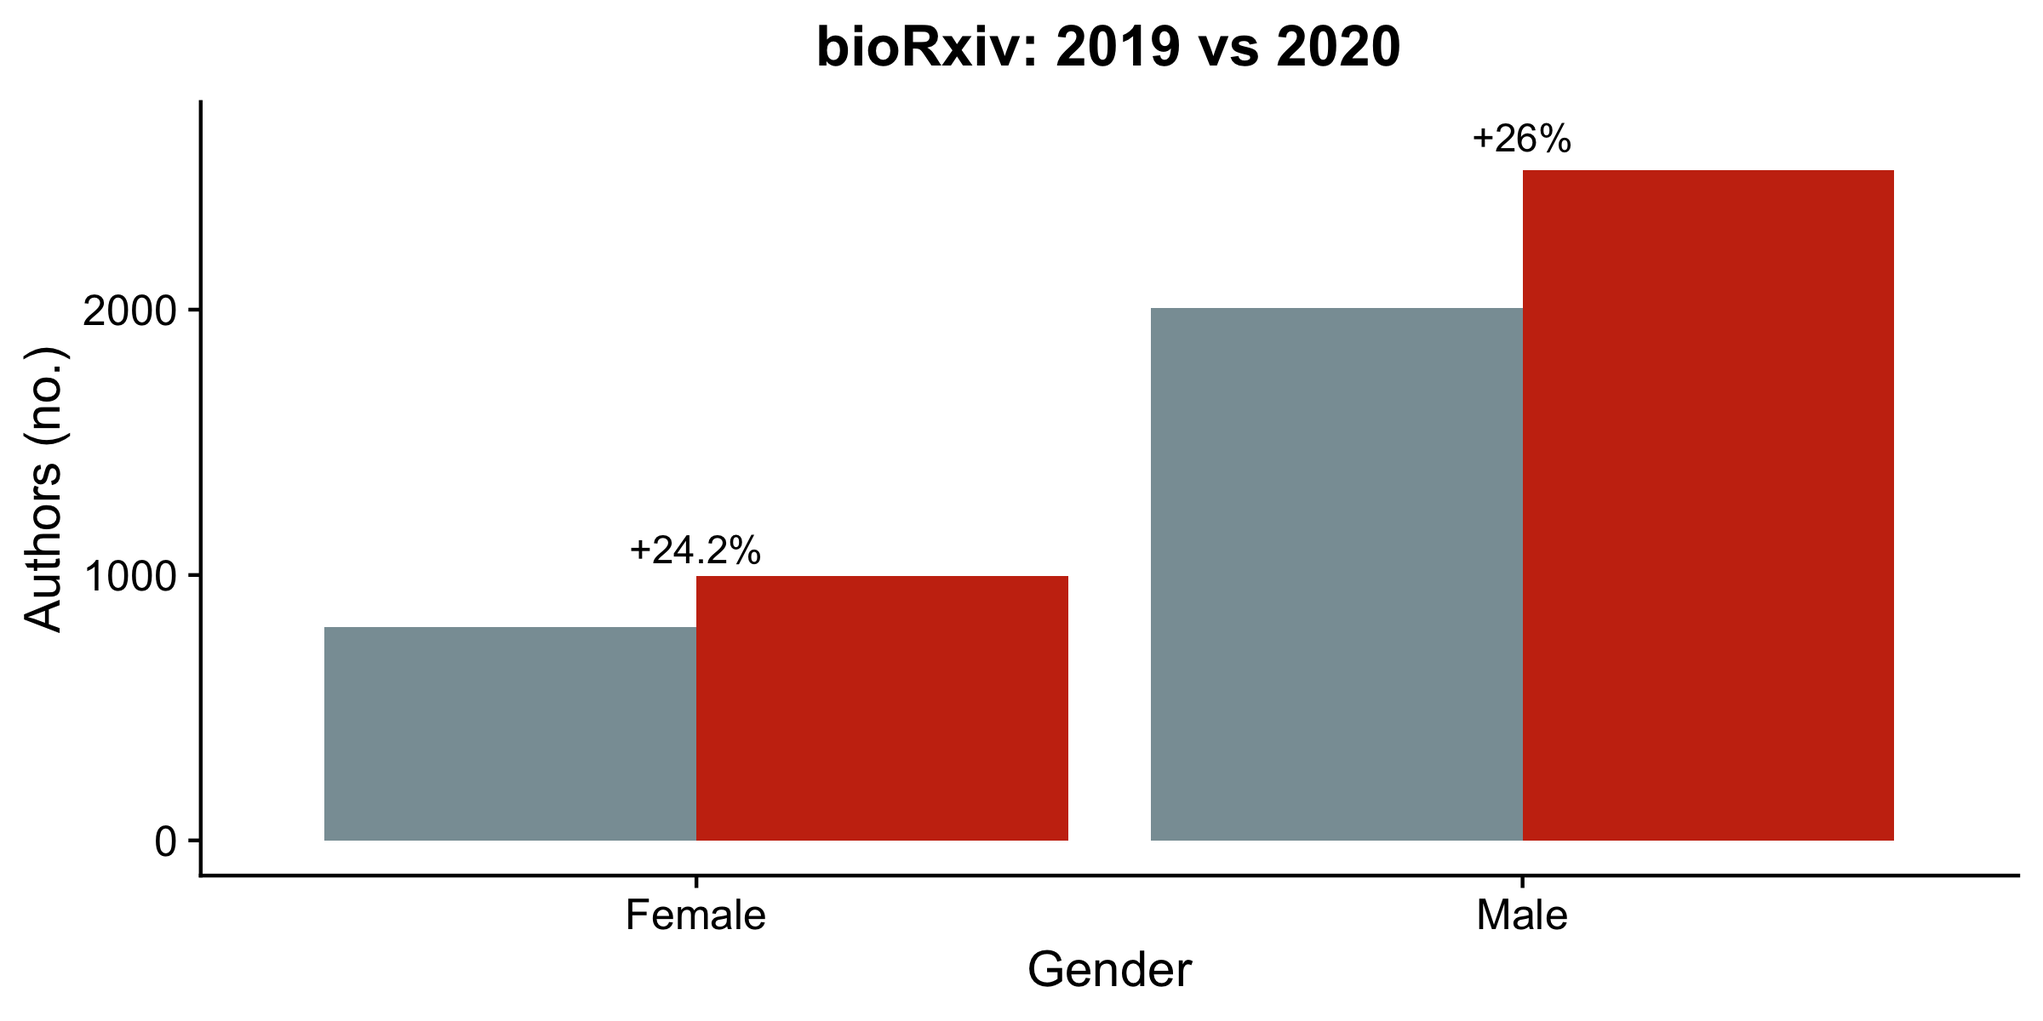
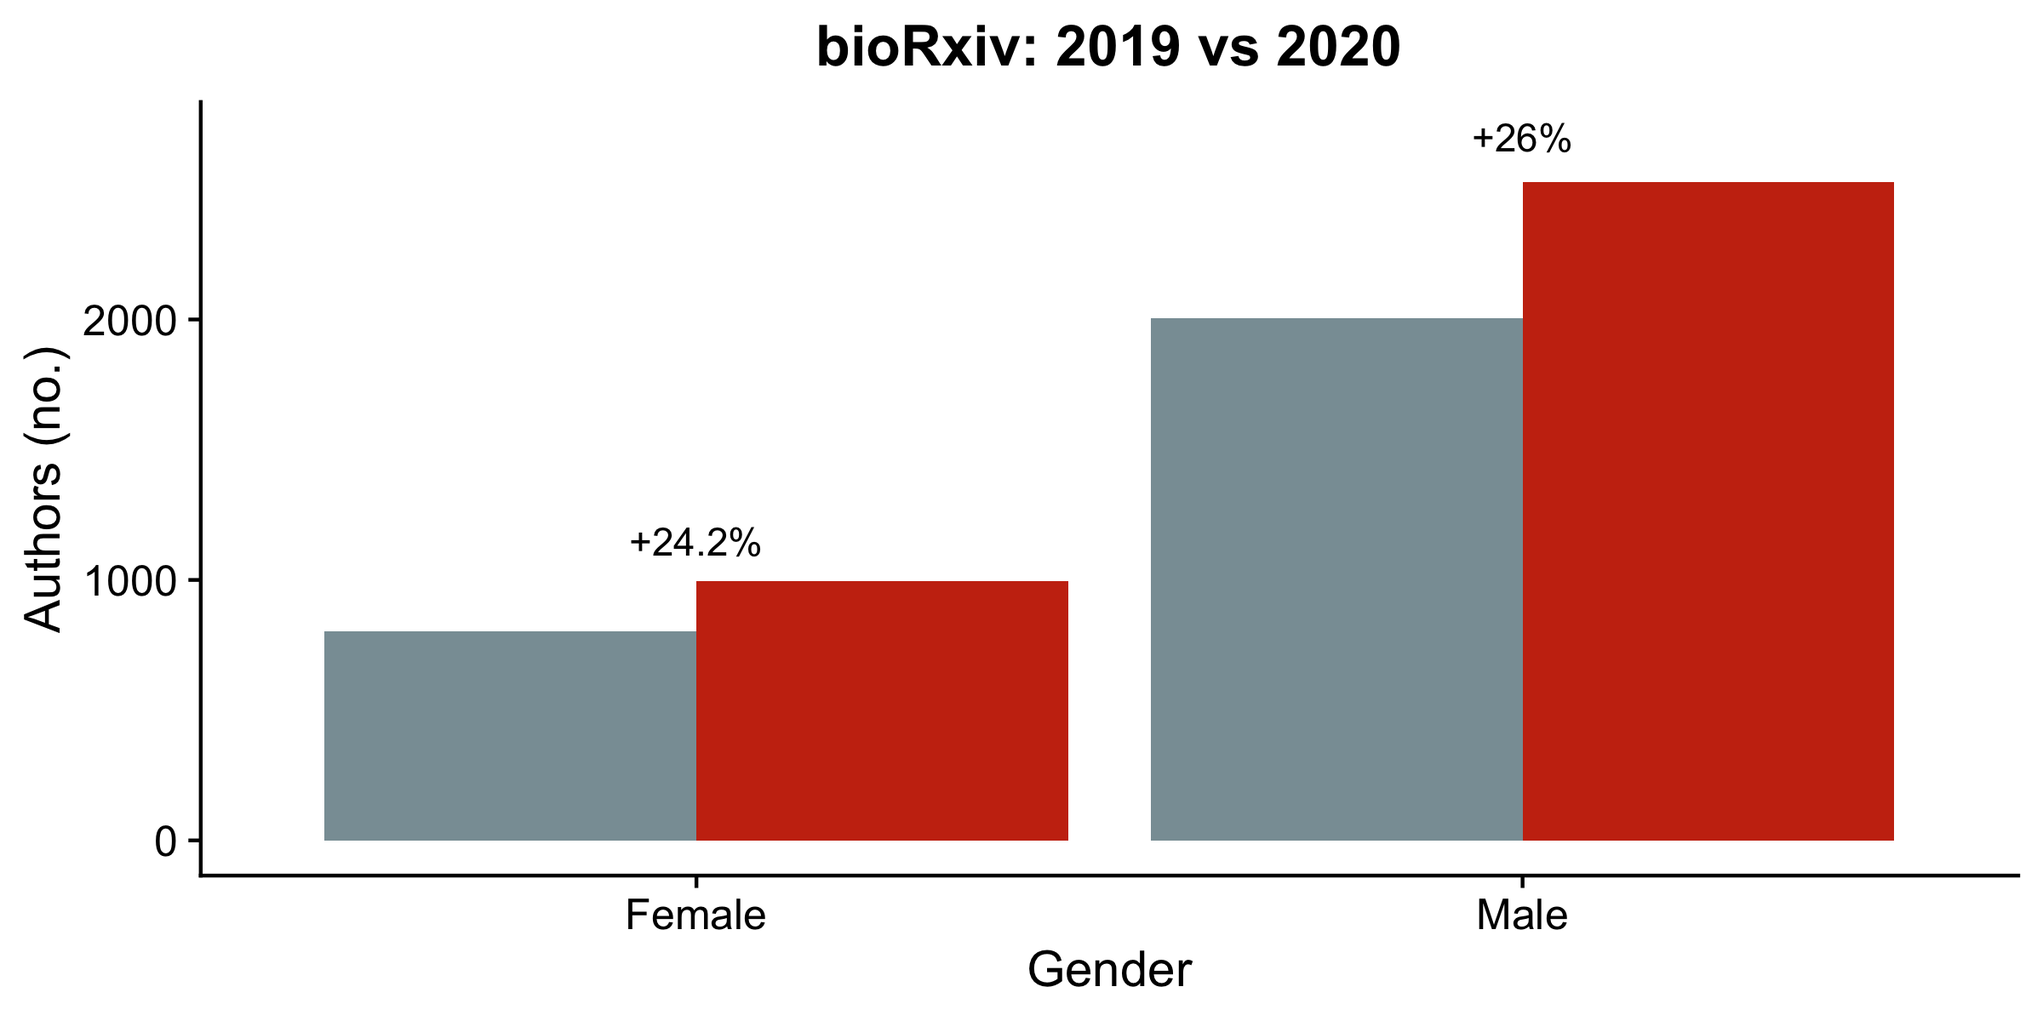
Commit from RStudio

diff --git a/README.md b/README.md
@@ -5,20 +5,18 @@ Megan Frederickson
 
 With schools and daycares closed because of COVID-19, many academics are
 currently working from home with their kids underfoot. Writing in
-Nature, \[Minello\]
-(<https://www.nature.com/articles/d41586-020-01135-9>) suggested the
-pandemic is disproportionately affecting the productivity of female
-academics, because women often do more caregiving than men.
+*Nature,* [Minello](https://www.nature.com/articles/d41586-020-01135-9)
+suggested the pandemic is disproportionately affecting the productivity
+of female academics, because women often do more caregiving than men.
 
 I quantified this effect by analyzing data on preprint submissions to
-arXiv (<https://arxiv.org/>) and bioRxiv (<https://www.biorxiv.org/>),
-two preprint servers that together cover many STEM fields. Peer review
-takes time, so it is still too soon to see COVID-19’s effects on the
-numbers of journal articles published by female versus male academics.
-However, a growing number of academics make their submitted or
-in-progress manuscripts available on preprint servers, meaning it might
-be possible to measure the pandemic’s effect on preprint submissions in
-real time.
+[arXiv](https://arxiv.org/) and [bioRxiv](https://www.biorxiv.org/), two
+preprint servers that together cover many STEM fields. Peer review takes
+time, so it is still too soon to see COVID-19’s effects on the numbers
+of journal articles published by female versus male academics. However,
+a growing number of academics make their submitted or in-progress
+manuscripts available on preprint servers, meaning it might be possible
+to measure the pandemic’s effect on preprint submissions in real time.
 
 ## arXiv submissions
 
@@ -30,11 +28,9 @@ Karthik, R. and K. Broman (2019). aRxiv: Interface to the arXiv API. R
 package version 0.5.19. <https://CRAN.R-project.org/package=aRxiv>
 
 I began by scraping all records for March 15-April 15, 2020, during the
-COVID-19 pandemic, and for the same date range in 2019. I then expanded
-to the same dates in 2018. Finally, I scraped all the data for
-Jan. 1-March 15, 2020, immediately before the pandemic, and updated the
-pandemic data with the most recent dates (April 16-22, 2020). I scraped
-the data in batches, as recommended in the aRxiv package tutorial.
+COVID-19 pandemic, and for the same date range in 2019 and 2018. Then, I
+scraped all the data for January 1 to April 22, 2020. I scraped the data
+in batches, as recommended in the aRxiv package tutorial.
 
 ``` r
 #Not run
@@ -96,7 +92,7 @@ Data. R package version 0.5.3, <https://github.com/ropensci/gender>.
 
 This package returns the probability that a name is male or female by
 comparing the name to names in a database; I used the U.S. Social
-Security baby names database.
+Security Administration baby names database.
 
 Please note: this is a brute force method of predicting gender, and it
 has many limitations, as discussed by the package authors on their
@@ -125,12 +121,12 @@ df.early2020 <- read.csv("Data/arxiv_early2020_data.csv")
 df.update <- read.csv("Data/arxiv_update2020_data.csv")
 df.all2020 <- rbind(df.2020, df.early2020, df.update) #Combine in one dataframe
 
-split.names <- function(x){strsplit(as.character(x), "|", fixed=TRUE)} #Write a function to split strings of author names
+split.names <- function(x){strsplit(as.character(x), "|", fixed=TRUE)} #Function to split strings of author names
 
 #For the year over year dataset
 df.full$split.names <- lapply(df.full$authors, split.names) #Apply function
 
-all_first_names <- word(unlist(df.full$split.names),1) #Make a list of all first author names
+all_first_names <- word(unlist(df.full$split.names),1) #Make a list of all author first names
 gender <- gender(all_first_names, method = "ssa") #Assign gender
 gender <- unique(gender[ , c(1,2,4)]) #Keep only unique names
 
@@ -144,7 +140,7 @@ for(i in 1:length(df.full$authors)){
   df.full$female.n[i] <-  sum(as.numeric(str_count(as.character(tmp$gender), pattern = paste(sprintf("\\b%s\\b", "female")))), na.rm=TRUE)
 }
 
-df.full.output <- as.data.frame(apply(df.full,2,as.character))
+df.full.output <- as.data.frame(apply(df.full,2,as.character)) 
 write.csv(df.full.output, "Data/arxiv_full_gender.csv")
 
 #Same for the all 2020 dataset
@@ -167,26 +163,27 @@ df.all2020.output <- as.data.frame(apply(df.all2020,2,as.character))
 write.csv(df.all2020.output, "Data/arxiv_all2020_gender.csv")
 ```
 
-### All arXiv authors
+### Total numbers of arXiv preprint authors in Mar/Apr 2020 compared to Mar/Apr 2019, by gender
 
 How many male versus female authors of preprints were there in Mar/Apr,
-2020, compared to the same dates last year?
+2020, compared to the same dates last year? Note: this is not the number
+of unique authors; it includes authors who submitted multiple preprints.
 
 ``` r
 df.full <- read.csv("Data/arxiv_full_gender.csv") #Read in data
-df.full <- df.full[!duplicated(df.full), ] #Remove duplicates
+df.full <- df.full[!duplicated(df.full), ] #Remove duplicates, if any
 df.full$year <- as.factor(year(as.Date(df.full$submitted))) #Extract year
 
 all <- as.data.frame(ungroup(df.full %>% group_by(year) %>% summarize(Female = sum(female.n, na.rm=TRUE), Male = sum(male.n, na.rm=TRUE)))) #Summarize by year
-all$total <- all$Female+all$Male #Total autthors
+all$total <- all$Female+all$Male #Total authors
 all.long <- gather(all, Gender, number, Male:Female) #Make wide data long
 all.t <- as.data.frame(t(all[,-1])) #Transpose
 colnames(all.t) <- c("2018", "2019", "2020") #Fix column names
-all.t$per.dif.1920 <- (all.t$`2020`/all.t$`2019`*100)-100 #Calculate percent change, 2020 over 2019
+all.t$per.dif.1920 <- ((all.t$`2020`-all.t$`2019`)/(all.t$`2019`))*100 #Calculate percent change, 2020 over 2019
 
-#Just compare 2019 and 2020
-p1 <- ggplot(data=subset(all.long, year != 2018), aes(fill=as.factor(year), y=number, x=Gender))+geom_bar(position="dodge", stat="identity")+theme_cowplot()+xlab("Gender")+ylab("Authors (no.)")+labs(fill="Year")+scale_fill_manual(values = wes_palette("Royal1"), labels=c("Mar/Apr 2019", "Mar/Apr 2020"))+ggtitle("arXiv: 2019 vs 2020, all authors")+theme(legend.position = c(0.1, 0.9), legend.title = element_blank(), plot.title = element_text(hjust = 0.5))+annotate("text", x=c(1, 2),  y=c(8500,29000), label = paste0("+", round(all.t$per.dif.1920[1:2], 1), "%"))
-p1
+#Make figure comparing 2020 to 2019
+p1 <- ggplot(data=subset(all.long, year != 2018), aes(fill=as.factor(year), y=number, x=Gender))+geom_bar(position="dodge", stat="identity")+theme_cowplot()+xlab("Gender")+ylab("Authors (no.)")+labs(fill="Year")+scale_fill_manual(values = wes_palette("Royal1"), labels=c("Mar/Apr 2019", "Mar/Apr 2020"))+ggtitle("arXiv: 2019 vs 2020, all authors")+theme(legend.position = c(0.1, 0.9), legend.title = element_blank(), plot.title = element_text(hjust = 0.5))+annotate("text", x=c(1, 2),  y=c(8700,29200), label = paste0("+", round(all.t$per.dif.1920[1:2], 1), "%"))
+p1 
 ```
 
 ![](README_files/figure-gfm/Visualize%20data-1.png)<!-- -->
@@ -198,22 +195,22 @@ same dates in 2019, the number of male authors has grown more than the
 number of female authors, both as a percent change and in absolute
 terms.
 
-### Sole arXiv authors
+### Numbers of single-authored arXiv preprints in Mar/Apr 2020 compared to Mar/Apr 2019, by gender
 
-How many arXiv preprints were sole-authored by a male versus a female
+How many arXiv preprints were sole-authored by a female versus a male
 academic in Mar/Apr, 2020, compared to the same dates last
 year?
 
 ``` r
-summary <- as.data.frame(ungroup(df.full %>% group_by(year, male.n, female.n) %>% summarize(n = n())))
-summary$total.n <- summary$male.n+summary$female.n
-summary.sole.authors <- subset(summary, total.n == 1)
-sole.wide <- spread(summary.sole.authors, year, n)
-sole.wide$gender <- ifelse(sole.wide$male.n == 0, "Female", "Male")
-sole.long <- gather(sole.wide, year, number, `2018`:`2020`)
-sole.wide$per.dif.1920 <- (sole.wide$`2020`/sole.wide$`2019`)*100-100
+df.full$author.n <- str_count(df.full$authors, pattern = "\\|")+1 #Count author number
+sole.authors <- as.data.frame(ungroup(subset(df.full, author.n == 1) %>% group_by(year) %>% summarize(Female = sum(female.n, na.rm=TRUE), Male = sum(male.n, na.rm=TRUE)))) #Summarize by year
+sole.long <- gather(sole.authors, Gender, number, Male:Female) #Make wide data long
+sole.authors.t <- as.data.frame(t(sole.authors[,-1])) #Transpose
+colnames(sole.authors.t) <- c("2018", "2019", "2020") #Fix column names
+sole.authors.t$per.dif.1920 <- ((sole.authors.t$`2020`-sole.authors.t$`2019`)/(sole.authors.t$`2019`))*100 #Calculate percent change, 2020 over 2019
 
-p2 <- ggplot(data=subset(sole.long, year != 2018), aes(fill=as.factor(year), y=number, x=gender))+geom_bar(position="dodge", stat="identity")+theme_cowplot()+xlab("Gender")+ylab("Authors (no.)")+labs(fill="Year")+scale_fill_manual(values = wes_palette("Royal1"), labels=c("Mar/Apr 2019", "Mar/Apr 2020"))+ggtitle("arXiv: 2019 vs 2020, sole authors")+theme(legend.position = c(0.1, 0.9), legend.title = element_blank(), plot.title = element_text(hjust = 0.5))+annotate("text", x=c(1, 2),  y=c(880,3150), label = paste0("+", round(sole.wide$per.dif.1920[1:2], 1), "%"))+theme(legend.position="none")
+#Make figure for sole-authored preprints
+p2 <- ggplot(data=subset(sole.long, year != 2018), aes(fill=as.factor(year), y=number, x=Gender))+geom_bar(position="dodge", stat="identity")+theme_cowplot()+xlab("Gender")+ylab("Authors (no.)")+labs(fill="Year")+scale_fill_manual(values = wes_palette("Royal1"), labels=c("Mar/Apr 2019", "Mar/Apr 2020"))+ggtitle("arXiv: 2019 vs 2020, sole authors")+theme(legend.position = c(0.1, 0.9), legend.title = element_blank(), plot.title = element_text(hjust = 0.5))+annotate("text", x=c(1, 2),  y=c(260,1350), label = paste0("+", round(sole.authors.t$per.dif.1920[1:2], 1), "%"))+theme(legend.position="none")
 p2
 ```
 
@@ -221,9 +218,10 @@ p2
 
 Single-authored arXiv submissions are also up overall, but again the
 number of male authors is currently growing faster than the number of
-female authors, both as a percent change and in absolute terms.
+female authors, both as a percent change and in absolute
+terms.
 
-### arXiv: pre- and during-COVID-19 in the year 2020
+### Numbers of arXiv preprint submissions in January to April, 2020, by gender
 
 Next, I zoomed in on the months leading up to widespread stay-at-home
 orders and school and childcare closures that North Americans
@@ -234,15 +232,16 @@ different parts of the world.)
 ``` r
 #All authors
 df.all2020 <- read.csv("Data/arxiv_all2020_gender.csv") #Read in data
-df.all2020 <- df.all2020[!duplicated(df.all2020), ] #Remove duplicated removes
+df.all2020 <- df.all2020[!duplicated(df.all2020), ] #Remove duplicated rows, if any
 
 df.all2020$month <- floor_date(as.Date(df.all2020$submitted), "month") #Bin by month
-arxiv.m <- as.data.frame(ungroup(subset(df.all2020) %>% group_by(month) %>% summarize(female.n=sum(female.n, na.rm=TRUE), male.n=sum(male.n, na.rm=TRUE),n.days = length(unique(as.Date(submitted)))))) #Summarize by month
+arxiv.m <- as.data.frame(ungroup(df.all2020 %>% group_by(month) %>% summarize(female.n=sum(female.n, na.rm=TRUE), male.n=sum(male.n, na.rm=TRUE), n.days = length(unique(as.Date(submitted)))))) #Summarize by month
 arxiv.m.long <- gather(arxiv.m, gender, n, female.n:male.n) #Make wide data long
 arxiv.m.long$pubs.per.day <- arxiv.m.long$n/arxiv.m.long$n.days #Adjust for different numbers of days in each month
 arxiv.m.long$gender <- as.factor(arxiv.m.long$gender) #Make sure gender is a factor
 levels(arxiv.m.long$gender) <- c("Female", "Male") #Capitalize genders
 
+#Make early 2020 figure
 p3 <- ggplot(data=arxiv.m.long, aes(fill=gender, y=pubs.per.day, x=month))+geom_bar(position="dodge", stat="identity")+theme_cowplot()+ggtitle("arXiv: early 2020")+xlab("Month")+ylab("Preprint authors per day (no.)")+labs(fill="Gender")+facet_grid(~gender)+theme(legend.position="none", plot.title = element_text(hjust = 0.5))
 p3
 ```
@@ -251,13 +250,12 @@ p3
 
 The numbers of male authors of arXiv preprints have increased through
 early 2020, while numbers of female authors of arXiv preprints have
-basically plateaued during the pandemic.
+almost plateaued during the pandemic.
 
 ## bioRxiv submissions
 
-Next, I scraped submission data from bioRxiv (<https://biorxiv.org/>),
-which is the main preprint server for biology. I used the rbiorxiv
-package, see:
+Next, I scraped submission data from bioRxiv, the main preprint server
+for biology. I used the rbiorxiv package, see:
 
 Fraser, N (2020). rbiorxiv. R package,
 <https://github.com/nicholasmfraser/rbiorxiv>
@@ -281,53 +279,51 @@ write.csv(df.b.2018, "Data/biorxiv_2018_data.csv")
 ```
 
 I then inferred the gender of corresponding authors of bioRxiv
-preprints, as above. Note that the bioRxiv API only returns first author
-names for the corresponding authors, and not for all authors.
-(Unfortunately.)
+preprints, as above. Note that the bioRxiv API only returns first names
+for corresponding authors, and not for all authors. (Unfortunately.)
 
 ``` r
-df.b.2018 <- read.csv("Data/biorxiv_2018_data.csv")
+df.b.2018 <- read.csv("Data/biorxiv_2018_data.csv") #Read in data
 df.b.2019 <- read.csv("Data/biorxiv_2019_data.csv")
 df.b.all2020 <- read.csv("Data/biorxiv_2020_data.csv")
 
-df.b.full <- rbind(df.b.2018, df.b.2019, subset(df.b.all2020, as.Date(date) >= "2020-03-15" & as.Date(date) <= "2020-04-15"))
-
-df.b.full$year <- as.factor(year(as.Date(df.b.full$date)))
-
-df.b.all2020$date <- as.Date(df.b.all2020$date)
+df.b.full <- rbind(df.b.2018, df.b.2019, subset(df.b.all2020, as.Date(date) >= "2020-03-15" & as.Date(date) <= "2020-04-15")) #Make year comparison, subsetting 2020 data to just March 15 to April 15
+df.b.full$year <- as.factor(year(as.Date(df.b.full$date))) #Extract year
+df.b.all2020$date <- as.Date(df.b.all2020$date) #Make sure date column is in date format
 
 df.b.full$cor.author.first.name <- sapply(strsplit(as.character(df.b.full$author_corresponding), " "), head, 1) #Extract first names
 df.b.all2020$cor.author.first.name <- sapply(strsplit(as.character(df.b.all2020$author_corresponding), " "), head, 1) #Extract first names
 
+#Assign gender for year-over-year dataset
 gender <- NULL
 gender <- gender(df.b.full$cor.author.first.name, method = "ssa")
 gender <- unique(gender[ , c(1,2,4)])
 df.b.full <- merge(df.b.full, gender, by.x = "cor.author.first.name",  by.y ="name", all = TRUE)
+df.b.full <- df.b.full[!duplicated(df.b.full),] #Remove duplicated rows, if any
 
-df.b.full <- df.b.full[!duplicated(df.b.full),]
-
+#Assigng gender for early 2020 dataset
 gender <- NULL
 gender <- gender(df.b.all2020$cor.author.first.name, method = "ssa")
 gender <- unique(gender[ , c(1,2,4)])
 df.b.all2020 <- merge(df.b.all2020, gender, by.x = "cor.author.first.name",  by.y ="name", all = TRUE)
-
-df.b.all2020 <- df.b.all2020[!duplicated(df.b.all2020),]
+df.b.all2020 <- df.b.all2020[!duplicated(df.b.all2020),] #Remove duplicated rows, if any
 ```
 
-I compared the numbers of male and female corresponding authors on
-bioRxiv preprints between Mar/Apr 2019 and
-2020.
+### Total numbers of bioRxiv preprint authors in Mar/Apr 2020 compared to Mar/Apr 2019, by gender
+
+How many male and female corresponding authors were there on bioRxiv
+preprints between Mar/Apr 2019 and
+2020?
 
 ``` r
-biorxiv.yr <- as.data.frame(ungroup(subset(df.b.full, !is.na(gender)) %>% group_by(year, gender) %>% summarize(n=n())))
-biorxiv.yr.wide <- spread(biorxiv.yr, year, n)
-biorxiv.yr.wide$gender <- as.factor(biorxiv.yr.wide$gender)
-levels(biorxiv.yr.wide$gender) <- c("Female", "Male")
-biorxiv.yr.long <- gather(biorxiv.yr.wide, year, number, `2018`:`2020`)
-biorxiv.yr.long$year <- as.factor(biorxiv.yr.long$year)
-biorxiv.yr.wide$per.dif.1920 <- (biorxiv.yr.wide$`2020`/biorxiv.yr.wide$`2019`)*100-100
+biorxiv.yr <- as.data.frame(ungroup(subset(df.b.full, !is.na(gender)) %>% group_by(year, gender) %>% summarize(n=n()))) #Summarize by year
+biorxiv.yr$gender <- as.factor(biorxiv.yr$gender) #Make sure gender is a factor
+levels(biorxiv.yr$gender) <- c("Female", "Male") #Capitalize genders
+biorxiv.yr.wide <- spread(biorxiv.yr, year, n) #Make long data wide
+biorxiv.yr.wide$per.dif.1920 <- ((biorxiv.yr.wide$`2020`-biorxiv.yr.wide$`2019`)/biorxiv.yr.wide$`2019`)*100 #Calculate percent change, 2019 to 2020
 
-p4 <- ggplot(data=subset(biorxiv.yr.long, year != 2018), aes(fill=as.factor(year), y=number, x=as.factor(gender)))+geom_bar(position="dodge", stat="identity")+theme_cowplot()+xlab("Gender")+ylab("Authors (no.)")+labs(fill="Year")+scale_fill_manual(values = wes_palette("Royal1"))+ggtitle("bioRxiv: 2019 vs 2020")+theme(plot.title = element_text(hjust = 0.5))+annotate("text", x=c(1,2),  y=c(1100,2650), label = paste0("+", round(biorxiv.yr.wide$per.dif.1920, 1), "%"))+theme(legend.position="none")
+#Make figure for 2019 versus 2020 comparison
+p4 <- ggplot(data=subset(biorxiv.yr, year != 2018), aes(fill=year, y=n, x=as.factor(gender)))+geom_bar(position="dodge",stat="identity")+theme_cowplot()+xlab("Gender")+ylab("Authors (no.)")+labs(fill="Year")+scale_fill_manual(values = wes_palette("Royal1"))+ggtitle("bioRxiv: 2019 vs 2020")+theme(plot.title = element_text(hjust = 0.5))+annotate("text", x=c(1,2),  y=c(1150,2700), label = paste0("+", round(biorxiv.yr.wide$per.dif.1920, 1), "%"))+theme(legend.position="none")
 p4
 ```
 
@@ -338,22 +334,25 @@ p5 <- plot_grid(p1, p2, p4, nrow=1) #Combine into part of a single figure
 ```
 
 The gender difference among corresponding authors for bioRxiv preprints
-is more modest than in the full arXiv dataset, but the number of male
+is more modest than in the arXiv dataset, but the number of male
 corresponding authors of bioRxiv preprints has still increased more than
-the number of female corresponding authors of bioRxiv preprints, year
-over year.
+the number of female corresponding authors of bioRxiv preprints, again
+both as a percent change and in absolute
+terms.
 
-### bioRxiv: pre- and during-COVID-19 in the year 2020
+### Numbers of bioRiv preprint submissions in January to April, 2020, by gender
 
 As for arXiv submissions, I also compared bioRxiv submissions across
-months for early 2020.
+months for early
+2020.
 
 ``` r
-df.b.all2020$month <- floor_date(df.b.all2020$date, "month")
-biorxiv.m <- as.data.frame(ungroup(subset(df.b.all2020, !is.na(gender)) %>% group_by(month, gender) %>% summarize(n=n(), n.days = length(unique(date)), pubs.per.day = n/n.days)))
-biorxiv.m$gender <- as.factor(biorxiv.m$gender)
-levels(biorxiv.m$gender) <- c("Female", "Male")
+df.b.all2020$month <- floor_date(df.b.all2020$date, "month") #Bin by month
+biorxiv.m <- as.data.frame(ungroup(subset(df.b.all2020, !is.na(gender)) %>% group_by(month, gender) %>% summarize(n=n(), n.days = length(unique(date)), pubs.per.day = n/n.days))) #Summarize by month and gender
+biorxiv.m$gender <- as.factor(biorxiv.m$gender) #Make sure gender is a factor
+levels(biorxiv.m$gender) <- c("Female", "Male") #Capitalize genders
 
+#Make early 2020 figure
 p6 <- ggplot(data=biorxiv.m, aes(fill=gender, y=pubs.per.day, x=month))+geom_bar(position="dodge", stat="identity")+theme_cowplot()+ggtitle("bioRxiv: early 2020")+xlab("Month")+ylab("Preprint authors per day (no.)")+facet_grid(~gender)+theme(legend.position="none", plot.title = element_text(hjust = 0.5))
 p6
 ```
@@ -368,7 +367,7 @@ The numbers of male authors of bioRxiv preprints have increased steadily
 through early 2020, while numbers of female authors of bioRxiv preprints
 have increased only slightly.
 
-I put it all together in a single figure.
+Finally, I put it all together in a single figure.
 
 ``` r
 p8 <- plot_grid(p5, p7, nrow=2)
@@ -378,15 +377,28 @@ p8
 ![](README_files/figure-gfm/Combine%20visualizations-1.png)<!-- -->
 
 ``` r
-save_plot("figure.png", p8, base_height=16, base_width=16)
+save_plot("figure.png", p8, base_height=12, base_width=12)
 ```
 
-Throughout this analysis, effects are conservative because many
-preprints describe research completed months ago. However, the trends in
-both preprint servers are consistent with the hypothesis that the
-pandemic is disproportionately hurting the productivity of female
-scholars. How long this effect will persist, and what its downstream
-consequences might be for journal publications and academic careers, are
-open questions. In summary, in a ‘publish or perish’ world, it seems
-this pandemic could be setting back the hard-won progress of women in
-STEM.
+Throughout this analysis, effects are likely conservative because many
+preprints describe research completed months ago, long before the
+COVID-19 pandemic. Furthermore, it is important to note that gender is
+not perfectly predictive of increased caregiving demands during the
+pandemic; some male academics are primary caregivers for their children,
+many female academics do not have children at home, and children are not
+the only people who may need more care than usual during COVID-19.
+
+However, the trends in both preprint servers are consistent with the
+hypothesis that the pandemic is disproportionately hurting the
+productivity of female scholars. How long this effect will persist, and
+what its downstream consequences might be for journal publications and
+academic careers, are open questions. This analysis could also be
+extended to examine the effects of author order, field, and researcher
+institution or country, or to other preprint servers, none of which I
+have done.
+
+In summary, in a ‘publish or perish’ world, it seems this pandemic could
+be setting back the hard-won progress of women in STEM.
+
+Interested in collaborating? Please get in touch with me at
+m.frederickson(at)utoronto(dot)ca
